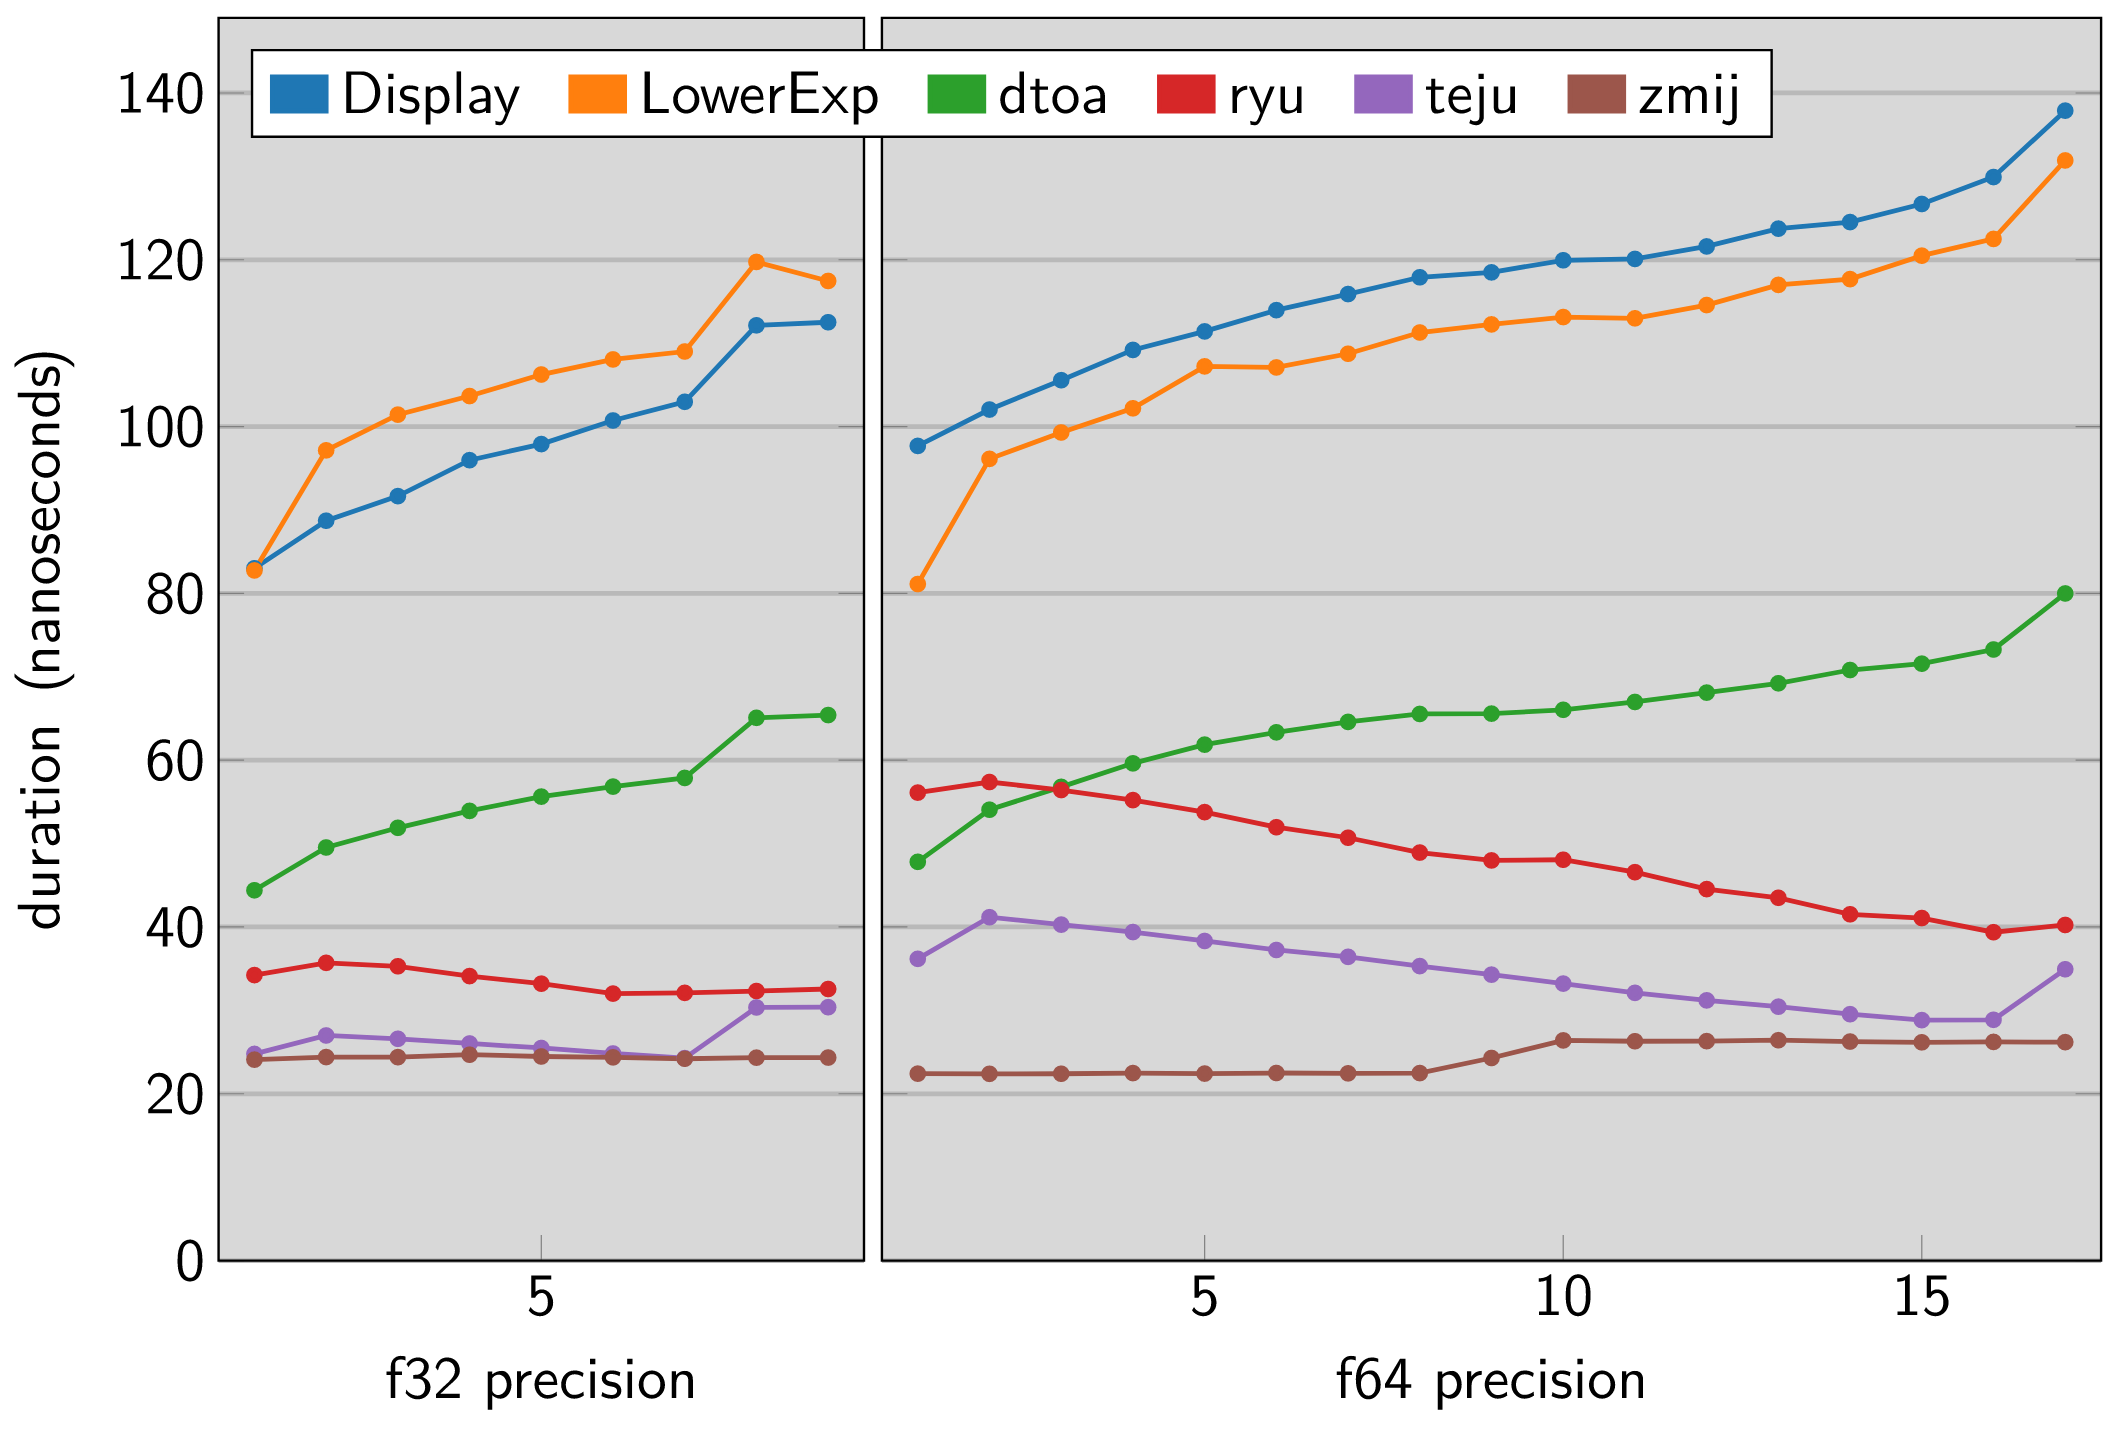
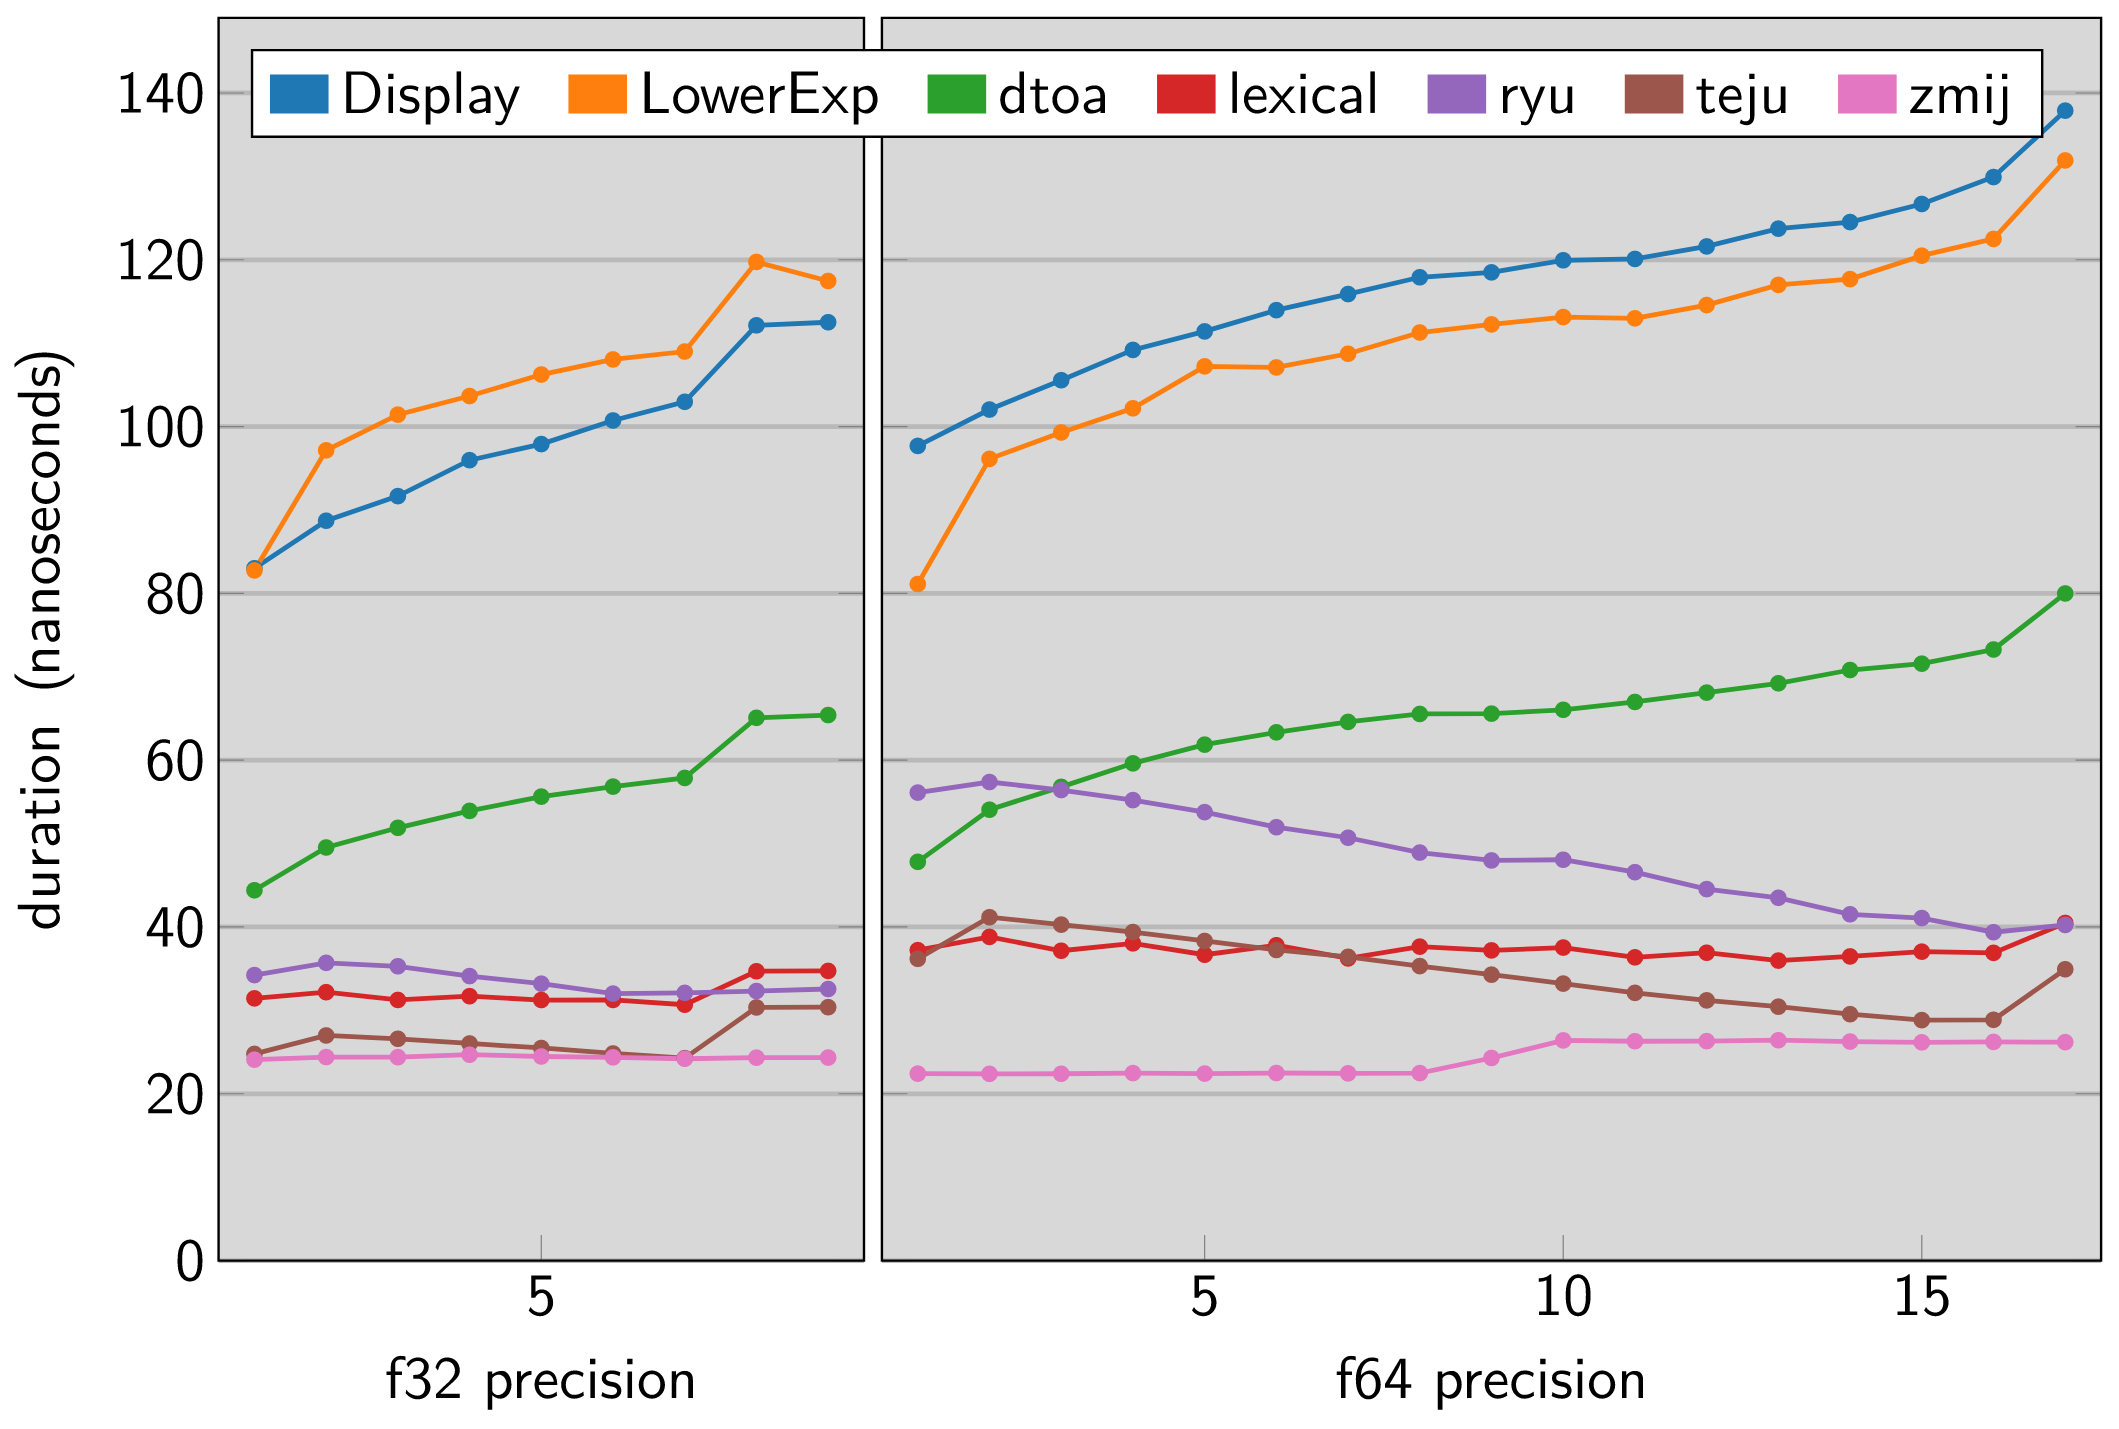
Add lexical-core crate

diff --git a/chart/performance.tex b/chart/performance.tex
@@ -6,9 +6,10 @@
 \definecolor{Display}{HTML}{1F77B4}
 \definecolor{LowerExp}{HTML}{FF7F0E}
 \definecolor{dtoa}{HTML}{2CA02C}
-\definecolor{ryu}{HTML}{D62728}
-\definecolor{teju}{HTML}{9467BD}
-\definecolor{zmij}{HTML}{9C564B}
+\definecolor{lexical}{HTML}{D62728}
+\definecolor{ryu}{HTML}{9467BD}
+\definecolor{teju}{HTML}{9C564B}
+\definecolor{zmij}{HTML}{E377C2}
 \tikzset{
   on layer/.code={
     \pgfonlayer{#1}\begingroup
@@ -116,6 +117,19 @@
     (8, 65.08)
     (9, 65.41)
   };
+  \addlegendentry{lexical}
+  \addlegendimage{color=lexical, fill, area legend}
+  \addplot[color=lexical] coordinates {
+    (1, 31.44)
+    (2, 32.18)
+    (3, 31.25)
+    (4, 31.70)
+    (5, 31.24)
+    (6, 31.25)
+    (7, 30.68)
+    (8, 34.69)
+    (9, 34.73)
+  };
   \addlegendentry{ryu}
   \addlegendimage{color=ryu, fill, area legend}
   \addplot[color=ryu] coordinates {
@@ -222,6 +236,25 @@
     (15, 71.57)
     (16, 73.27)
     (17, 79.99)
+  };
+  \addplot[color=lexical] coordinates {
+    (1, 37.22)
+    (2, 38.81)
+    (3, 37.15)
+    (4, 38.04)
+    (5, 36.67)
+    (6, 37.81)
+    (7, 36.23)
+    (8, 37.64)
+    (9, 37.19)
+    (10, 37.53)
+    (11, 36.36)
+    (12, 36.91)
+    (13, 35.97)
+    (14, 36.47)
+    (15, 37.04)
+    (16, 36.90)
+    (17, 40.48)
   };
   \addplot[color=ryu] coordinates {
     (1, 56.11)

diff --git a/src/main.rs b/src/main.rs
@@ -13,6 +13,7 @@ mod verify;
 use crate::args::Type;
 use anyhow::Result;
 use arrayvec::ArrayString;
+use lexical_core::FormattedSize;
 use rand::SeedableRng as _;
 use rand::distr::{Distribution, StandardUniform};
 use rand::rngs::SmallRng;
@@ -65,6 +66,19 @@ static IMPLS: &[Impl] = &[
         name: "dtoa",
         f32: |value, f| f(dtoa::Buffer::new().format_finite(value)),
         f64: |value, f| f(dtoa::Buffer::new().format_finite(value)),
+    },
+    Impl {
+        name: "lexical",
+        f32: |value, f| {
+            let mut buffer = [0u8; f32::FORMATTED_SIZE_DECIMAL];
+            let bytes = lexical_core::write(value, &mut buffer);
+            f(unsafe { str::from_utf8_unchecked(bytes) });
+        },
+        f64: |value, f| {
+            let mut buffer = [0u8; f64::FORMATTED_SIZE_DECIMAL];
+            let bytes = lexical_core::write(value, &mut buffer);
+            f(unsafe { str::from_utf8_unchecked(bytes) });
+        },
     },
     Impl {
         name: "ryu",
